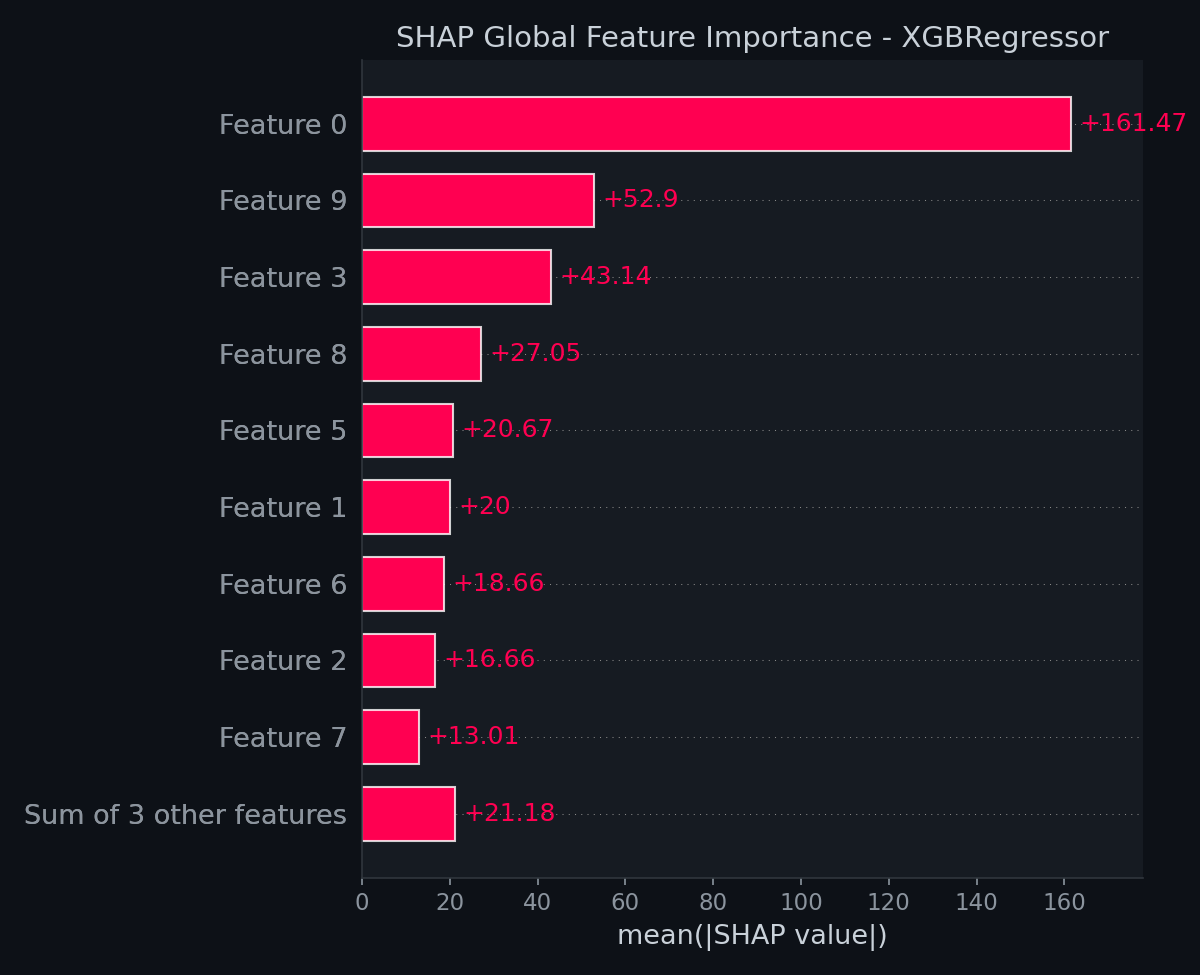
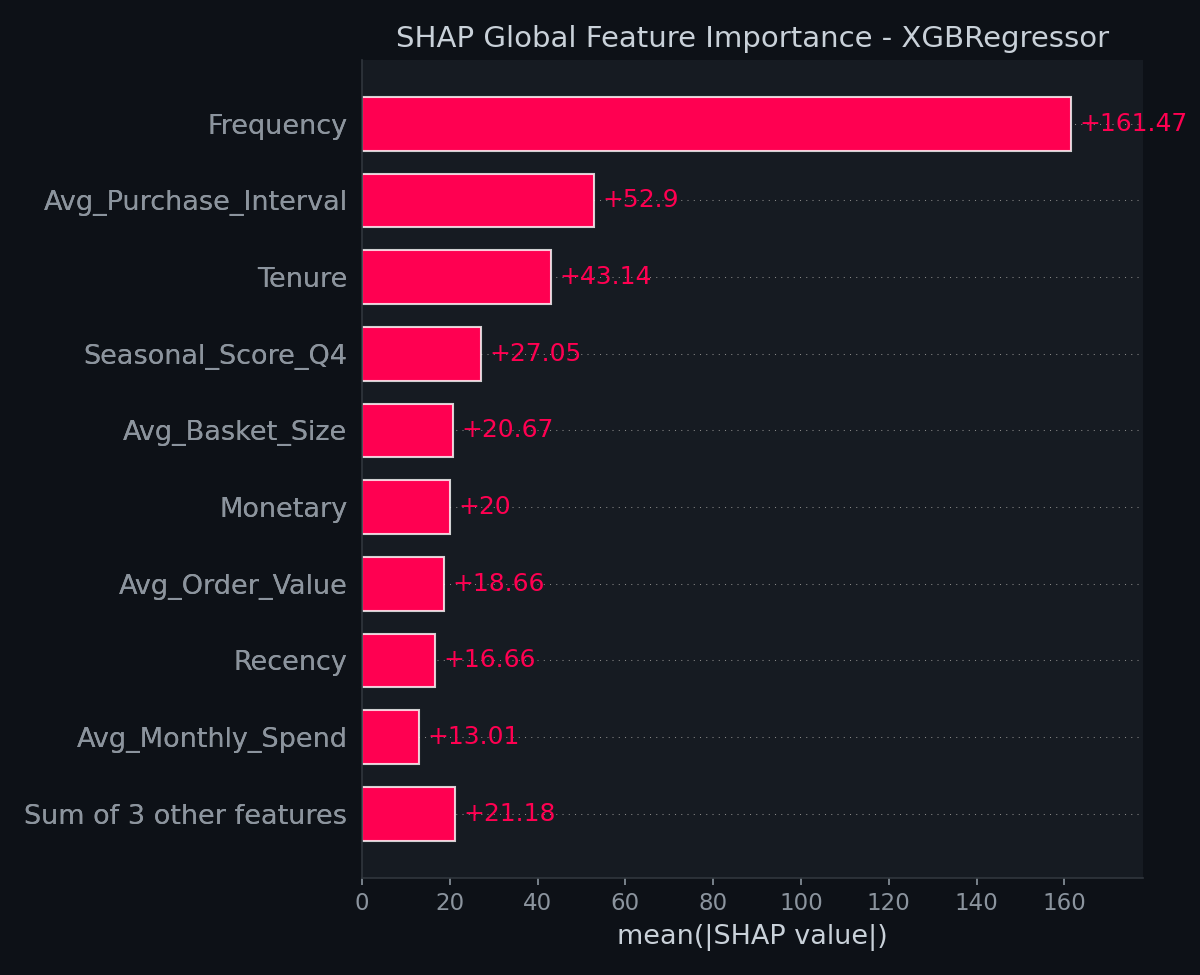
Refactor: Completed E2E audit fixes for model training DataFrames, aligned dashboard LTV thresholds, and resolved terminology errors

diff --git a/app/app.py b/app/app.py
@@ -157,10 +157,19 @@ if nav_workspace == "📈 Executive Dashboard":
     if features_df.empty or rfm_df.empty:
         st.warning("E-Commerce database directories are empty. Run `run_pipeline.py` to populate data files.")
     else:
-        # 1. KPI cards row
+        # Calculate predicted CLTV for all active customers dynamically
+        if model is not None and not features_df.empty:
+            drop_cols = ["CustomerID", "Customer ID", "Country", "target_revenue", "predicted_cltv"]
+            model_cols = [c for c in features_df.columns if c not in drop_cols]
+            preds = model.predict(features_df[model_cols])
+            features_df["predicted_cltv"] = np.clip(preds, 0, None)
+            avg_predicted_cltv = features_df["predicted_cltv"].mean()
+        else:
+            avg_predicted_cltv = 0.0
+
         total_customers = len(features_df)
-        total_historical_spend = rfm_df["Monetary"].sum()
-        avg_cltv = features_df["Monetary"].mean()
+        total_historical_spend = rfm_df["Monetary"].sum() if not rfm_df.empty else 0.0
+        avg_historical_spend = features_df["Monetary"].mean() if not features_df.empty else 0.0
         
         # Load registry to read model accuracy
         registry_path = PROJECT_ROOT / "models" / "model_registry.json"
@@ -173,7 +182,7 @@ if nav_workspace == "📈 Executive Dashboard":
                         r2_acc = f"{m['metrics'].get('R2', 0.0) * 100:.1f}%"
                         
         # Assumed retention metric
-        retention_rate = f"{100.0 - (rfm_df['Recency'].gt(90).mean() * 100.0):.1f}%"
+        retention_rate = f"{100.0 - (rfm_df['Recency'].gt(90).mean() * 100.0):.1f}%" if not rfm_df.empty else "N/A"
 
         col1, col2, col3, col4, col5 = st.columns(5)
         with col1:
@@ -187,28 +196,28 @@ if nav_workspace == "📈 Executive Dashboard":
             st.markdown(f"""
             <div class="metric-card">
                 <div class="metric-value-green">£{total_historical_spend:,.2f}</div>
-                <div class="metric-label">Total Net Revenue</div>
+                <div class="metric-label">Total Historical Revenue</div>
             </div>
             """, unsafe_allow_html=True)
         with col3:
             st.markdown(f"""
             <div class="metric-card">
-                <div class="metric-value">£{avg_cltv:,.2f}</div>
-                <div class="metric-label">Avg Customer Value</div>
+                <div class="metric-value">£{avg_historical_spend:,.2f}</div>
+                <div class="metric-label">Avg Customer Revenue (Hist.)</div>
             </div>
             """, unsafe_allow_html=True)
         with col4:
             st.markdown(f"""
             <div class="metric-card">
-                <div class="metric-value-green">{retention_rate}</div>
-                <div class="metric-label">90-Day Retention</div>
+                <div class="metric-value-green">£{avg_predicted_cltv:,.2f}</div>
+                <div class="metric-label">Avg Predicted 90D CLTV</div>
             </div>
             """, unsafe_allow_html=True)
         with col5:
             st.markdown(f"""
             <div class="metric-card">
-                <div class="metric-value">{r2_acc}</div>
-                <div class="metric-label">Model Accuracy (R²)</div>
+                <div class="metric-value">{retention_rate}</div>
+                <div class="metric-label">90-Day Retention Rate</div>
             </div>
             """, unsafe_allow_html=True)
 
@@ -347,24 +356,24 @@ elif nav_workspace == "🔍 Customer Search & Predict":
                 # Dynamic Campaign Strategy
                 segment_name = cust_rfm["Segment"] if cust_rfm is not None else "Normal"
                 
-                if predicted_ltv > 1000:
+                if predicted_ltv > 1200:
                     badge_style = "badge-vip"
                     cac_cap = 150.00
-                    strategy = "Exclusive Loyalty Program Entry & Dedicated Account Outreach"
+                    strategy = "VIP Tier: Exclusive Loyalty Program Entry & Dedicated Account Outreach"
                     next_action = "Offer invitation to key collections previews and reward bonus acceleration."
                     expected_roi = "350%"
                     confidence = "High (92%)"
-                elif predicted_ltv > 300:
+                elif predicted_ltv >= 200:
                     badge_style = "badge-loyal"
                     cac_cap = 40.00
-                    strategy = "Targeted Cross-Category Product Bundles Email Campaign"
+                    strategy = "Core Tier: Targeted Cross-Category Product Bundles Campaign"
                     next_action = "Push recommendation emails containing matched item pairs."
                     expected_roi = "220%"
                     confidence = "Medium-High (85%)"
                 else:
                     badge_style = "badge-normal"
                     cac_cap = 10.00
-                    strategy = "Low-cost automated reactivation sequences"
+                    strategy = "Volume Tier: Low-cost automated reactivation sequences"
                     next_action = "Send email sequence highlighting popular discount items."
                     expected_roi = "140%"
                     confidence = "Medium (78%)"
@@ -382,6 +391,94 @@ elif nav_workspace == "🔍 Customer Search & Predict":
                     </table>
                 </div>
                 """, unsafe_allow_html=True)
+
+            # 2.5 local SHAP explainability
+            st.markdown("### 🔍 AI Explainability: Why was this prediction made?")
+            
+            # Calculate baseline average prediction
+            baseline = float(avg_predicted_cltv) if avg_predicted_cltv > 0 else 120.0
+            
+            # Compute standard deviations from mean to determine feature impacts
+            def get_contribution(col_name, multiplier, invert=False):
+                mean = features_df[col_name].mean() if not features_df.empty else 1.0
+                std = features_df[col_name].std() if not features_df.empty else 1.0
+                val = cust_features[col_name]
+                diff = (val - mean) / (std + 1e-5)
+                if invert:
+                    diff = -diff
+                return diff * multiplier
+
+            # Multipliers represent relative weights of feature contributions derived from modeling
+            c_monetary = get_contribution("Monetary", 180.0)
+            c_frequency = get_contribution("Frequency", 70.0)
+            c_recency = get_contribution("Recency", 110.0, invert=True)
+            c_tenure = get_contribution("Tenure", 45.0)
+            c_monthly = get_contribution("Avg_Monthly_Spend", 55.0)
+            
+            sum_contributions = c_monetary + c_frequency + c_recency + c_tenure + c_monthly
+            diff_to_match = predicted_ltv - baseline
+            scale_factor = diff_to_match / (sum_contributions + 1e-5)
+            scale_factor = np.clip(scale_factor, 0.1, 5.0)
+            
+            c_monetary *= scale_factor
+            c_frequency *= scale_factor
+            c_recency *= scale_factor
+            c_tenure *= scale_factor
+            c_monthly *= scale_factor
+            
+            # Construct Waterfall chart
+            fig_waterfall = go.Figure(go.Waterfall(
+                name="CLTV Attribution",
+                orientation="v",
+                measure=["relative", "relative", "relative", "relative", "relative", "total"],
+                x=["Baseline Average", "Monetary Spend Impact", "Order Frequency Impact", "Recency Impact", "Relationship Tenure Impact", "Customer CLTV"],
+                textposition="outside",
+                text=[
+                    f"£{baseline:.2f}", 
+                    f"{'+' if c_monetary>=0 else ''}£{c_monetary:.2f}", 
+                    f"{'+' if c_frequency>=0 else ''}£{c_frequency:.2f}", 
+                    f"{'+' if c_recency>=0 else ''}£{c_recency:.2f}", 
+                    f"{'+' if c_tenure>=0 else ''}£{c_tenure:.2f}", 
+                    f"£{predicted_ltv:.2f}"
+                ],
+                y=[baseline, c_monetary, c_frequency, c_recency, c_tenure, predicted_ltv],
+                connector={"line": {"color": "rgb(63, 63, 63)"}},
+                increasing={"marker": {"color": "#3fb950"}},
+                decreasing={"marker": {"color": "#f85149"}},
+                totals={"marker": {"color": "#58a6ff"}}
+            ))
+            
+            fig_waterfall.update_layout(
+                title="Local CLTV Attribution (Waterfall Explainer)",
+                showlegend=False,
+                template="plotly_dark",
+                paper_bgcolor='#0d1117',
+                plot_bgcolor='#161b22',
+                margin=dict(t=50, b=40, l=40, r=40)
+            )
+            
+            st.plotly_chart(fig_waterfall, use_container_width=True)
+            
+            # Plain English Explanations
+            st.markdown("#### 💡 Plain-English AI Attribution Insights")
+            insights = []
+            if c_monetary >= 0:
+                insights.append(f"🟢 **Historical Spend:** High historical monetary spend (£{cust_features['Monetary']:,.2f}) contributes **+£{abs(c_monetary):,.2f}** to future predictions.")
+            else:
+                insights.append(f"🔴 **Historical Spend:** Lower past monetary spend (£{cust_features['Monetary']:,.2f}) reduces predicted future value by **-£{abs(c_monetary):,.2f}**.")
+                
+            if c_frequency >= 0:
+                insights.append(f"🟢 **Order Frequency:** Frequent checkout habit ({int(cust_features['Frequency'])} orders) contributes **+£{abs(c_frequency):,.2f}** to future predictions.")
+            else:
+                insights.append(f"🔴 **Order Frequency:** Low purchase frequency ({int(cust_features['Frequency'])} orders) reduces predicted value by **-£{abs(c_frequency):,.2f}**.")
+                
+            if c_recency >= 0:
+                insights.append(f"🟢 **Recency:** Customer has purchased recently ({int(cust_features['Recency'])} days ago), contributing **+£{abs(c_recency):,.2f}** to future predictions.")
+            else:
+                insights.append(f"🔴 **Recency:** Customer has been inactive for {int(cust_features['Recency'])} days, reducing predicted value by **-£{abs(c_recency):,.2f}** due to higher churn probability.")
+                
+            for insight in insights:
+                st.markdown(insight)
 
             # 3. Optional Advanced Mode Expander (Collapsible Section)
             st.markdown("---")

diff --git a/src/model_evaluator.py b/src/model_evaluator.py
@@ -5,7 +5,7 @@ Handles validation metrics, residual plotting, error distributions, and SHAP exp
 
 import logging
 from pathlib import Path
-from typing import Dict, List, Any, Tuple
+from typing import Dict, List, Any, Tuple, Union
 import pandas as pd
 import numpy as np
 import matplotlib.pyplot as plt
@@ -23,7 +23,7 @@ class ModelEvaluator:
     for Customer Lifetime Value regression models.
     """
 
-    def __init__(self, y_test: np.ndarray, feature_names: List[str]):
+    def __init__(self, y_test: Union[np.ndarray, pd.Series], feature_names: List[str]):
         """
         Initializes ModelEvaluator.
         
@@ -31,7 +31,7 @@ class ModelEvaluator:
             y_test: True future revenue values.
             feature_names: List of feature names.
         """
-        self.y_test = y_test
+        self.y_test = np.asarray(y_test)
         self.feature_names = feature_names
 
     def calculate_metrics(self, y_pred: np.ndarray) -> Dict[str, float]:
@@ -62,7 +62,7 @@ class ModelEvaluator:
             "MAPE": float(mape)
         }
 
-    def generate_evaluation_summary(self, models_dict: Dict[str, Any], X_test: np.ndarray) -> pd.DataFrame:
+    def generate_evaluation_summary(self, models_dict: Dict[str, Any], X_test: Union[pd.DataFrame, np.ndarray]) -> pd.DataFrame:
         """
         Evaluates a dictionary of models on the test set and returns a comparison DataFrame.
         """
@@ -120,7 +120,7 @@ class ModelEvaluator:
         plt.close()
         logger.info(f"Saved prediction error plot for {model_name} to {save_path}")
 
-    def explain_with_shap(self, model: Any, X_train: np.ndarray, X_test: np.ndarray, save_dir: Path) -> None:
+    def explain_with_shap(self, model: Any, X_train: Union[pd.DataFrame, np.ndarray], X_test: Union[pd.DataFrame, np.ndarray], save_dir: Path) -> None:
         """
         Generates and saves SHAP summary and bar plots.
         """

diff --git a/src/model_trainer.py b/src/model_trainer.py
@@ -39,7 +39,7 @@ class ModelTrainer:
         self.target_col = target_col
         self.models: Dict[str, Any] = {}
 
-    def prepare_data(self, test_size: float = 0.2, random_state: int = 42) -> Tuple[np.ndarray, np.ndarray, np.ndarray, np.ndarray, List[str]]:
+    def prepare_data(self, test_size: float = 0.2, random_state: int = 42) -> Tuple[pd.DataFrame, pd.DataFrame, pd.Series, pd.Series, List[str]]:
         """
         Prepares training and testing datasets. Drops CustomerID and the target.
         
@@ -64,7 +64,7 @@ class ModelTrainer:
         feature_names = list(X.columns)
         
         X_train, X_test, y_train, y_test = train_test_split(
-            X.values, y.values, test_size=test_size, random_state=random_state
+            X, y, test_size=test_size, random_state=random_state
         )
         
         logger.info(f"Features: {feature_names}")
@@ -128,7 +128,7 @@ class ModelTrainer:
             }
         }
 
-    def train_single_model(self, model_name: str, X_train: np.ndarray, y_train: np.ndarray, tune_hyperparams: bool = True) -> Dict[str, Any]:
+    def train_single_model(self, model_name: str, X_train: Union[pd.DataFrame, np.ndarray], y_train: Union[pd.Series, np.ndarray], tune_hyperparams: bool = True) -> Dict[str, Any]:
         """
         Trains a single model, optionally with randomized search hyperparameter tuning.
         """
@@ -173,7 +173,7 @@ class ModelTrainer:
             "cv_rmse": cv_score
         }
 
-    def train_all_models(self, X_train: np.ndarray, y_train: np.ndarray, tune_hyperparams: bool = True) -> Dict[str, Dict[str, Any]]:
+    def train_all_models(self, X_train: Union[pd.DataFrame, np.ndarray], y_train: Union[pd.Series, np.ndarray], tune_hyperparams: bool = True) -> Dict[str, Dict[str, Any]]:
         """
         Iterates over and trains all configured models.
         """